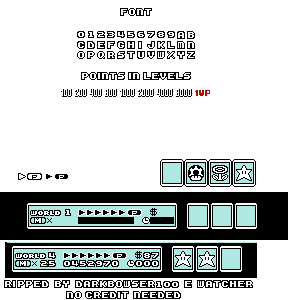
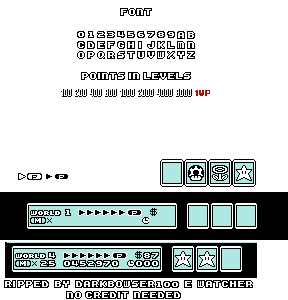
Add time to HUD.

Changed region(s): [[0.25, 0.72, 0.4688, 0.75], [0.5, 0.72, 0.625, 0.75]]

diff --git a/SuperMarioBros3/Hud.cpp b/SuperMarioBros3/Hud.cpp
@@ -10,6 +10,8 @@ CHud::CHud(float x, float y, int speed, int flyable, int coin, int life, int sco
 	this->score = score;
 	this->time = time;
 	properties = {};
+
+	time_start = 0;
 }
 
 void CHud::Update(DWORD dt, vector<LPGAMEOBJECT>* coObjects)
@@ -130,6 +132,22 @@ void CHud::Update(DWORD dt, vector<LPGAMEOBJECT>* coObjects)
 	for (int i = 11; i < 18; i++)
 		properties[i]->SetPosition(ccx + 82 + 8 * (i - 11), ccy + 214);
 	
+	//TIME
+	time_start = GetTickCount64();
+	int timepass = (int)time_start / 1000;
+	timepass = timepass % 10;
+	int tin, ti = 20;
+
+	int timeleft = time - timepass;
+	while (timeleft != 0)
+	{
+		tin = timeleft % 10;
+		properties[ti--]->SetType(tin);
+		timeleft /= 10;
+	}
+
+	for (int i = 18; i < 21; i++)
+		properties[i]->SetPosition(ccx + 154 + 8 * (i - 18), ccy + 214);
 
 	CGameObject::Update(dt, coObjects);
 	CCollision::GetInstance()->Process(this, dt, coObjects);
